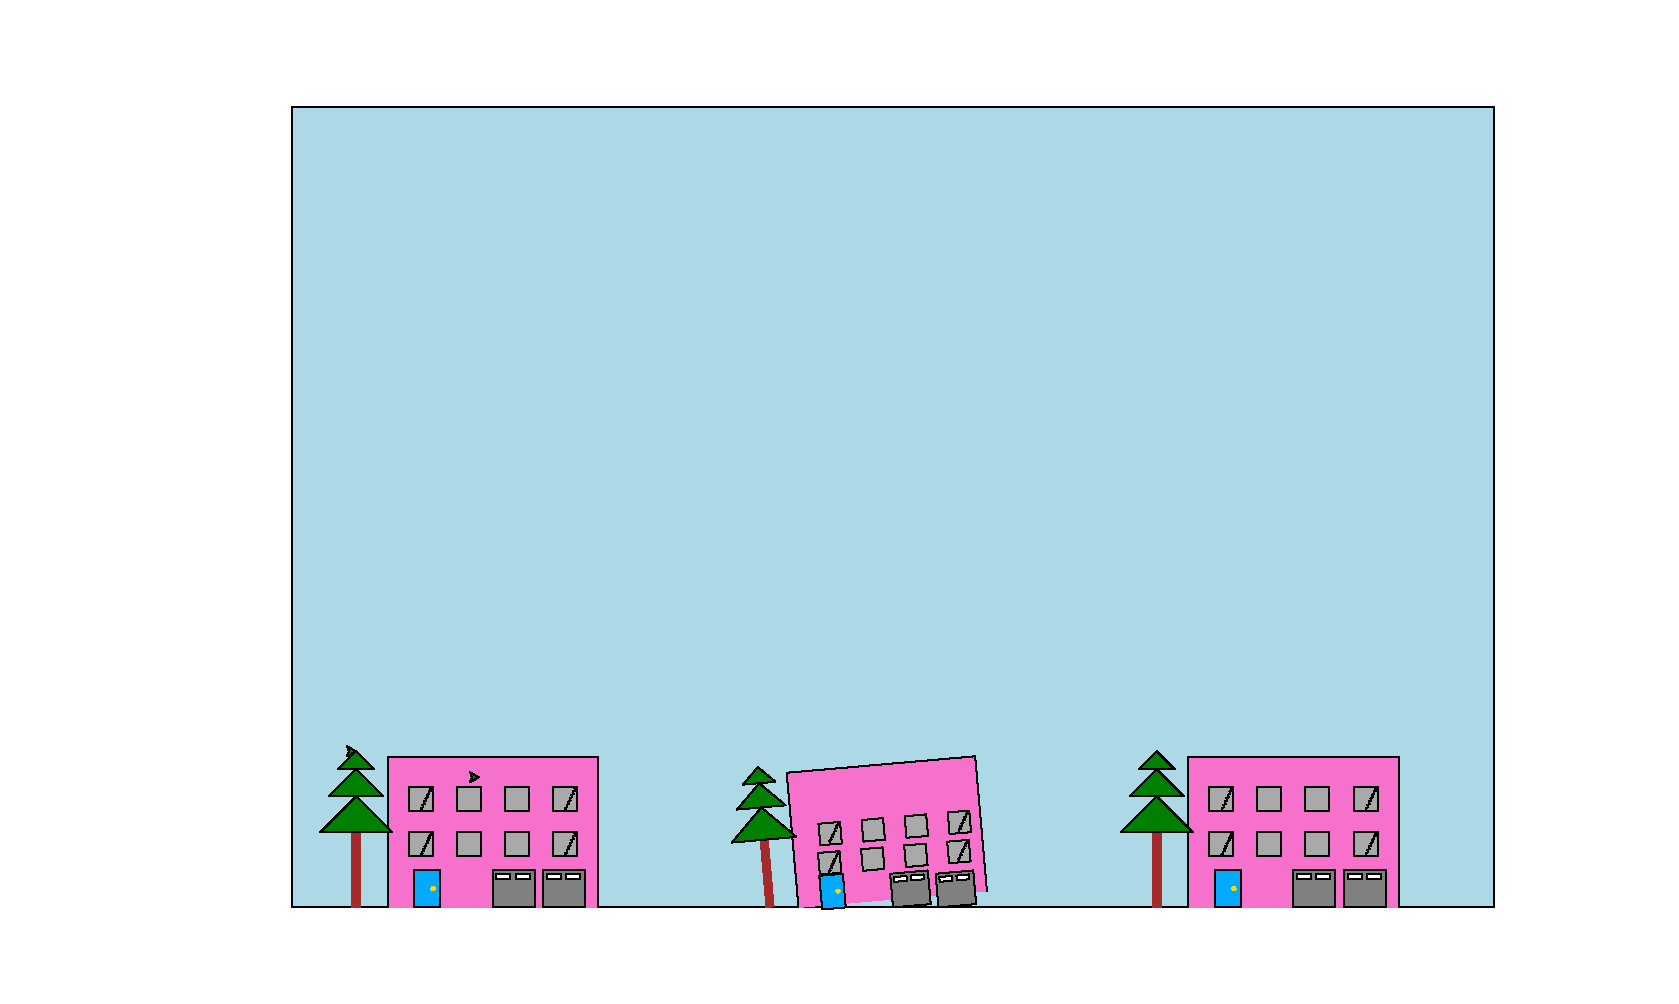
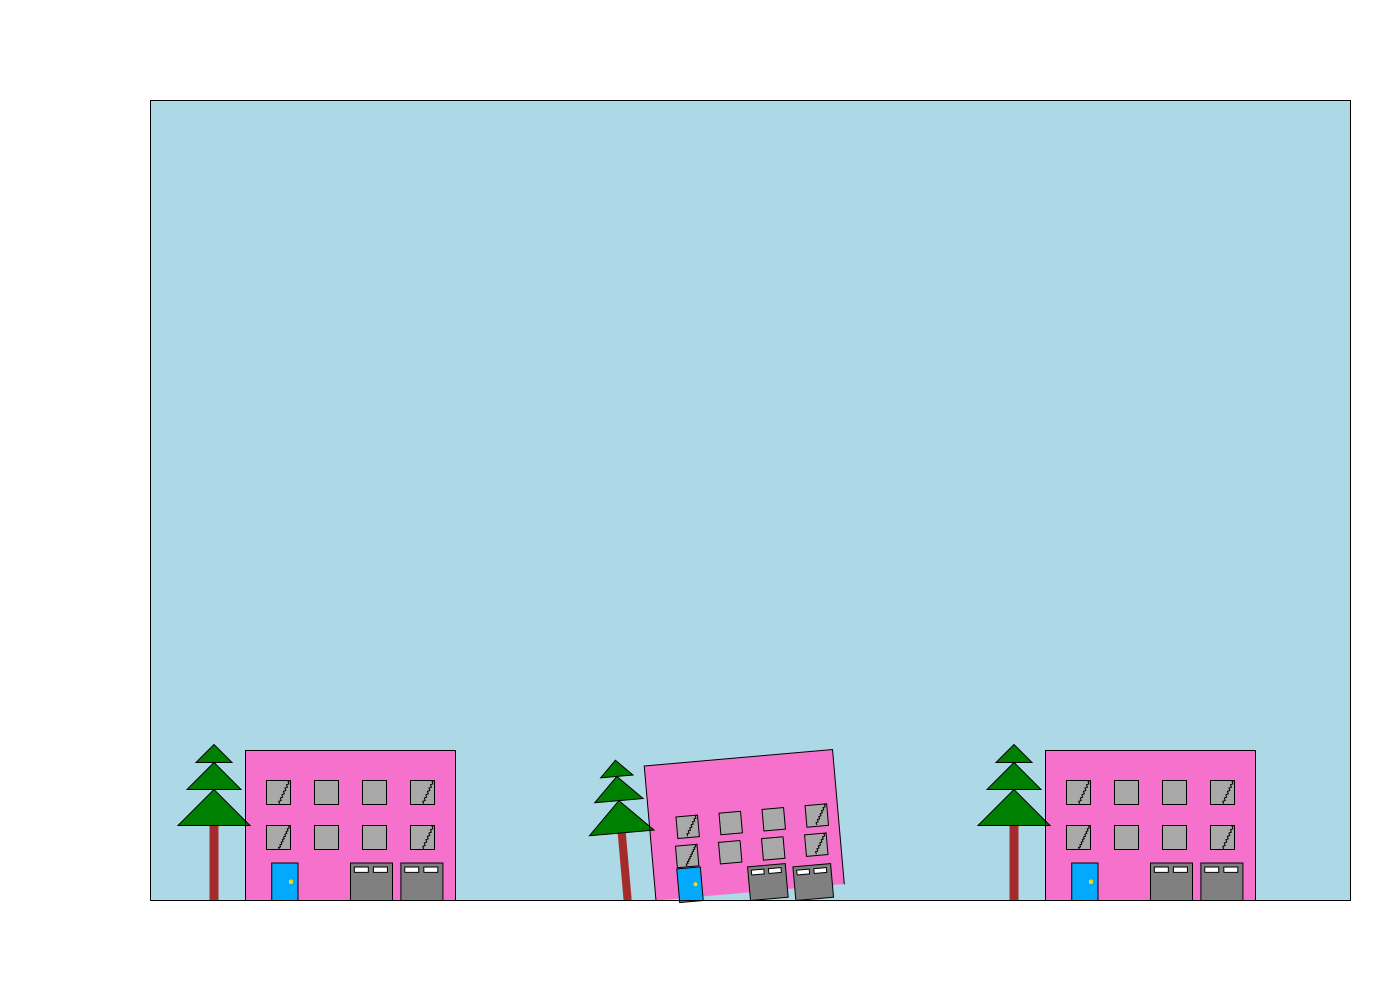
generated png with proper dimensions

Changed region(s): [[0.0921, 0.093, 0.9829, 0.93]]

diff --git a/generate_test_images.py b/generate_test_images.py
@@ -7,10 +7,14 @@ tests.
 """
 import os
 import turtle
+import svg_turtle
+from PIL import Image
 from house import *
 from pre_quake import single_house_scene
 import post_quake as post
-from PIL import Image
+from shape_test import CANVAS_SIZE
+from svglib.svglib import svg2rlg
+from reportlab.graphics import renderPDF, renderPM
 
 
 def convert_to_png(ps_path: str):
@@ -41,31 +45,30 @@ def generate_scale_test_image(save_name: str):
     scale_1 = 0.5
     scale_2 = 0.25
     offset = 300
-    t = turtle.Turtle()
+    t = svg_turtle.SvgTurtle(*CANVAS_SIZE)
     t.speed(0)
     draw_bounding_box(t)
     single_house_scene(t, scale=scale_1, right_offset=offset)
     single_house_scene(t, scale=scale_2, right_offset=-offset)
-    canvas = turtle.getcanvas()
-    canvas.postscript(file=f"testdata/{save_name}.ps", colormode="color")
-    convert_to_png(f"testdata/{save_name}.ps")
-    os.remove(f"testdata/{save_name}.ps")
-    t.done()
+    t.save_as(f"testdata/{save_name}.svg")
+    drawing = svg2rlg(f"testdata/{save_name}.svg")
+    renderPM.drawToFile(drawing, f"testdata/{save_name}.png", fmt="PNG")
 
 
 def generate_post_earthquake_test_image(save_name: str):
-    t = turtle.Turtle()
+    t = svg_turtle.SvgTurtle(*CANVAS_SIZE)
+    t.speed(0)
     post.main(t)
-    canvas = turtle.getcanvas()
-    canvas.postscript(file=f"testdata/{save_name}.ps", colormode="color")
-    convert_to_png(f"testdata/{save_name}.ps")
-    os.remove(f"testdata/{save_name}.ps")
+    t.save_as(f"testdata/{save_name}.svg")
+    drawing = svg2rlg(f"testdata/{save_name}.svg")
+    renderPM.drawToFile(drawing, f"testdata/{save_name}.png", fmt="PNG")
 
 
 if __name__ == "__main__":
     save_name = "scaled_houses"
     generate_scale_test_image(save_name)
+    os.remove(f"testdata/{save_name}.svg")
 
     save_name = "post_earthquake"
     generate_post_earthquake_test_image(save_name)
-
+    os.remove(f"testdata/{save_name}.svg")

diff --git a/shape_test.py b/shape_test.py
@@ -120,8 +120,12 @@ class TestShapes(unittest.TestCase):
         )
 
     def test_scaling(self):
-        single_house_scene(self._turtle, tilt = 0, scale = 0.5, right_offset=300)
-        single_house_scene(self._turtle, tilt = 0, scale = 0.25, right_offset=-300)
+        scale_1 = 0.5
+        scale_2 = 0.25
+        offset = 300
+        draw_bounding_box(self._turtle)
+        single_house_scene(self._turtle, scale=scale_1, right_offset=offset)
+        single_house_scene(self._turtle, scale=scale_2, right_offset=-offset)
         self.assertIsNone(
             self._compare_canvas_to_expected(expected_filename = "testdata/scaled_houses.png")
         )
